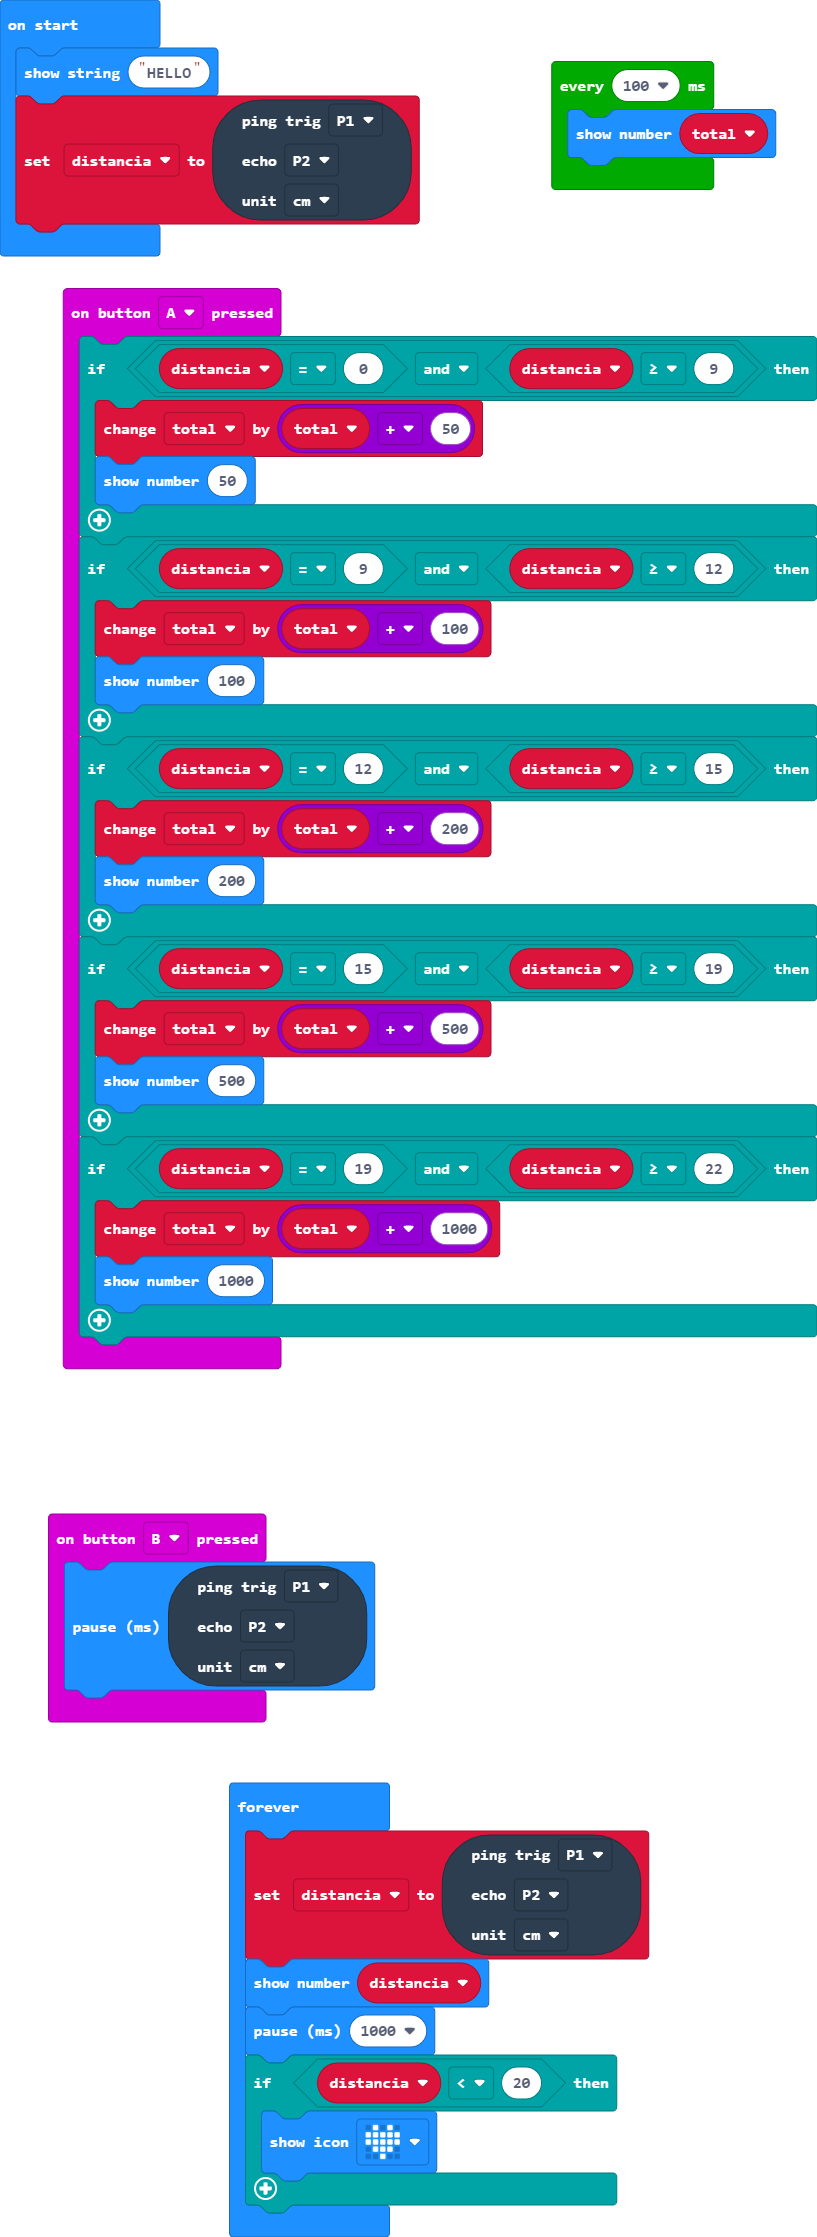
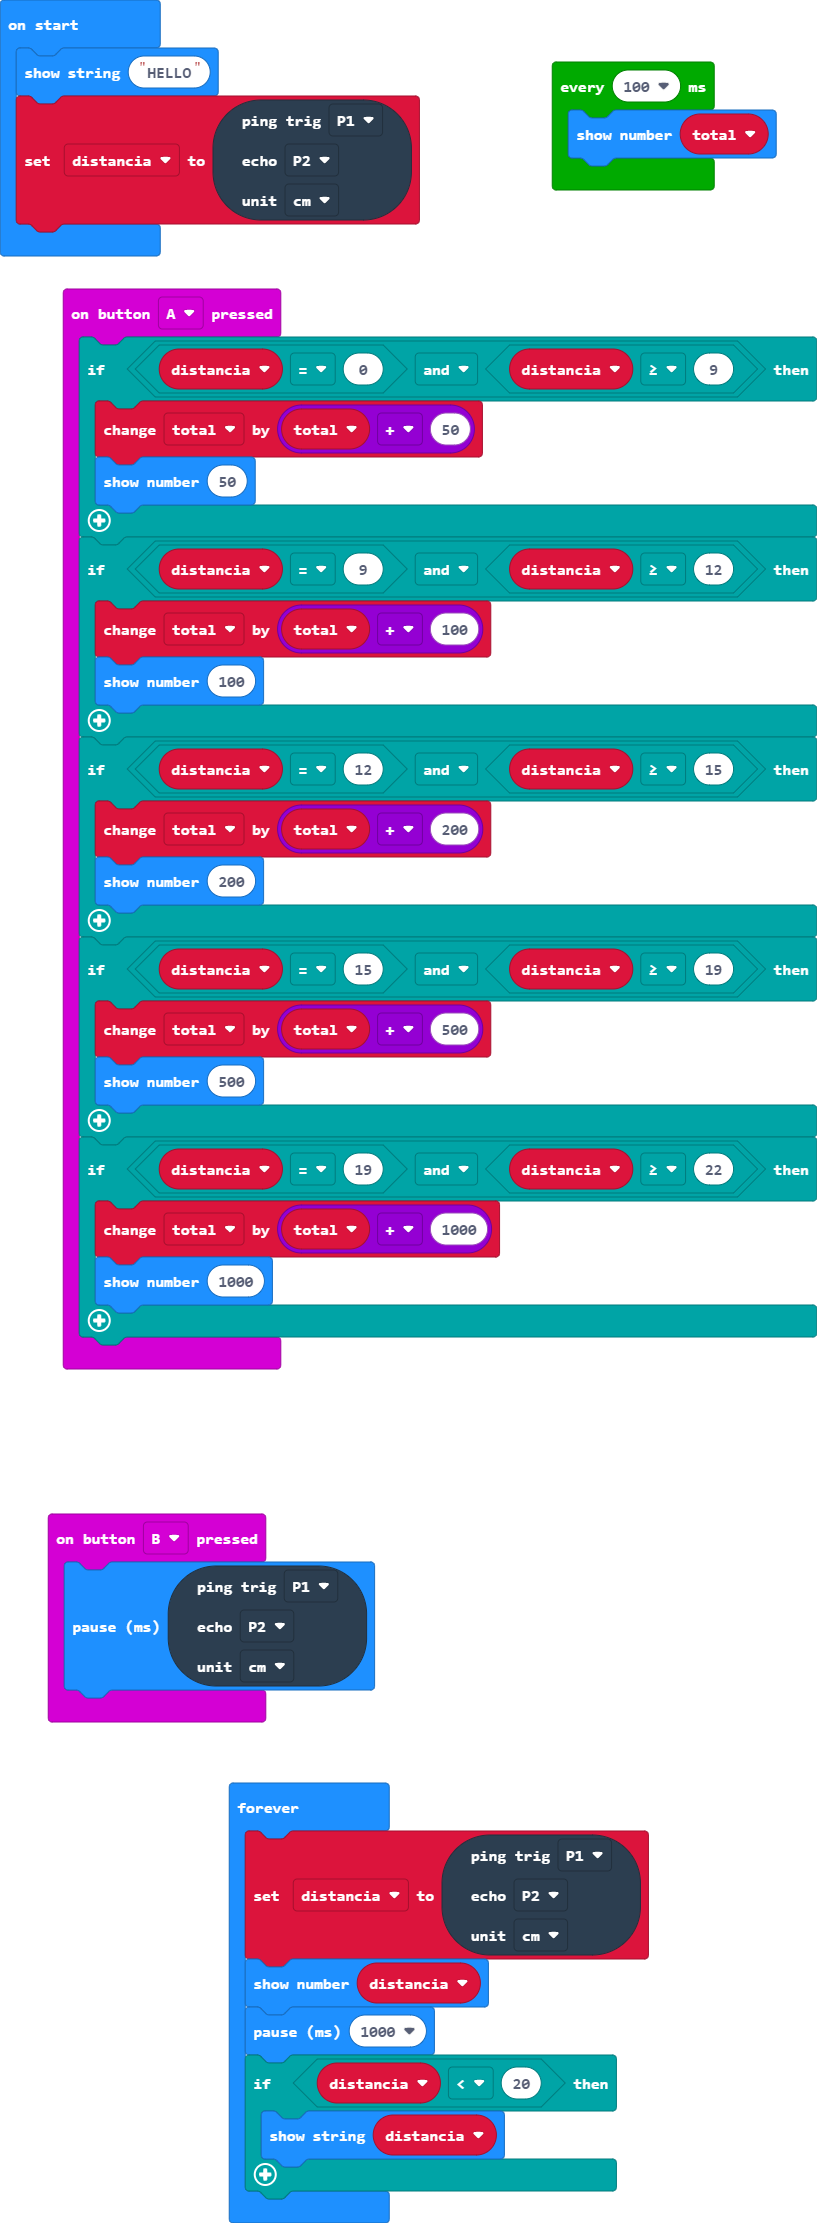
Update main.blocks, main.ts

diff --git a/main.ts b/main.ts
@@ -44,7 +44,7 @@ basic.forever(function () {
     basic.showNumber(distancia)
     basic.pause(1000)
     if (distancia < 20) {
-        basic.showIcon(IconNames.Heart)
+        basic.showString("" + (distancia))
     }
 })
 loops.everyInterval(100, function () {
